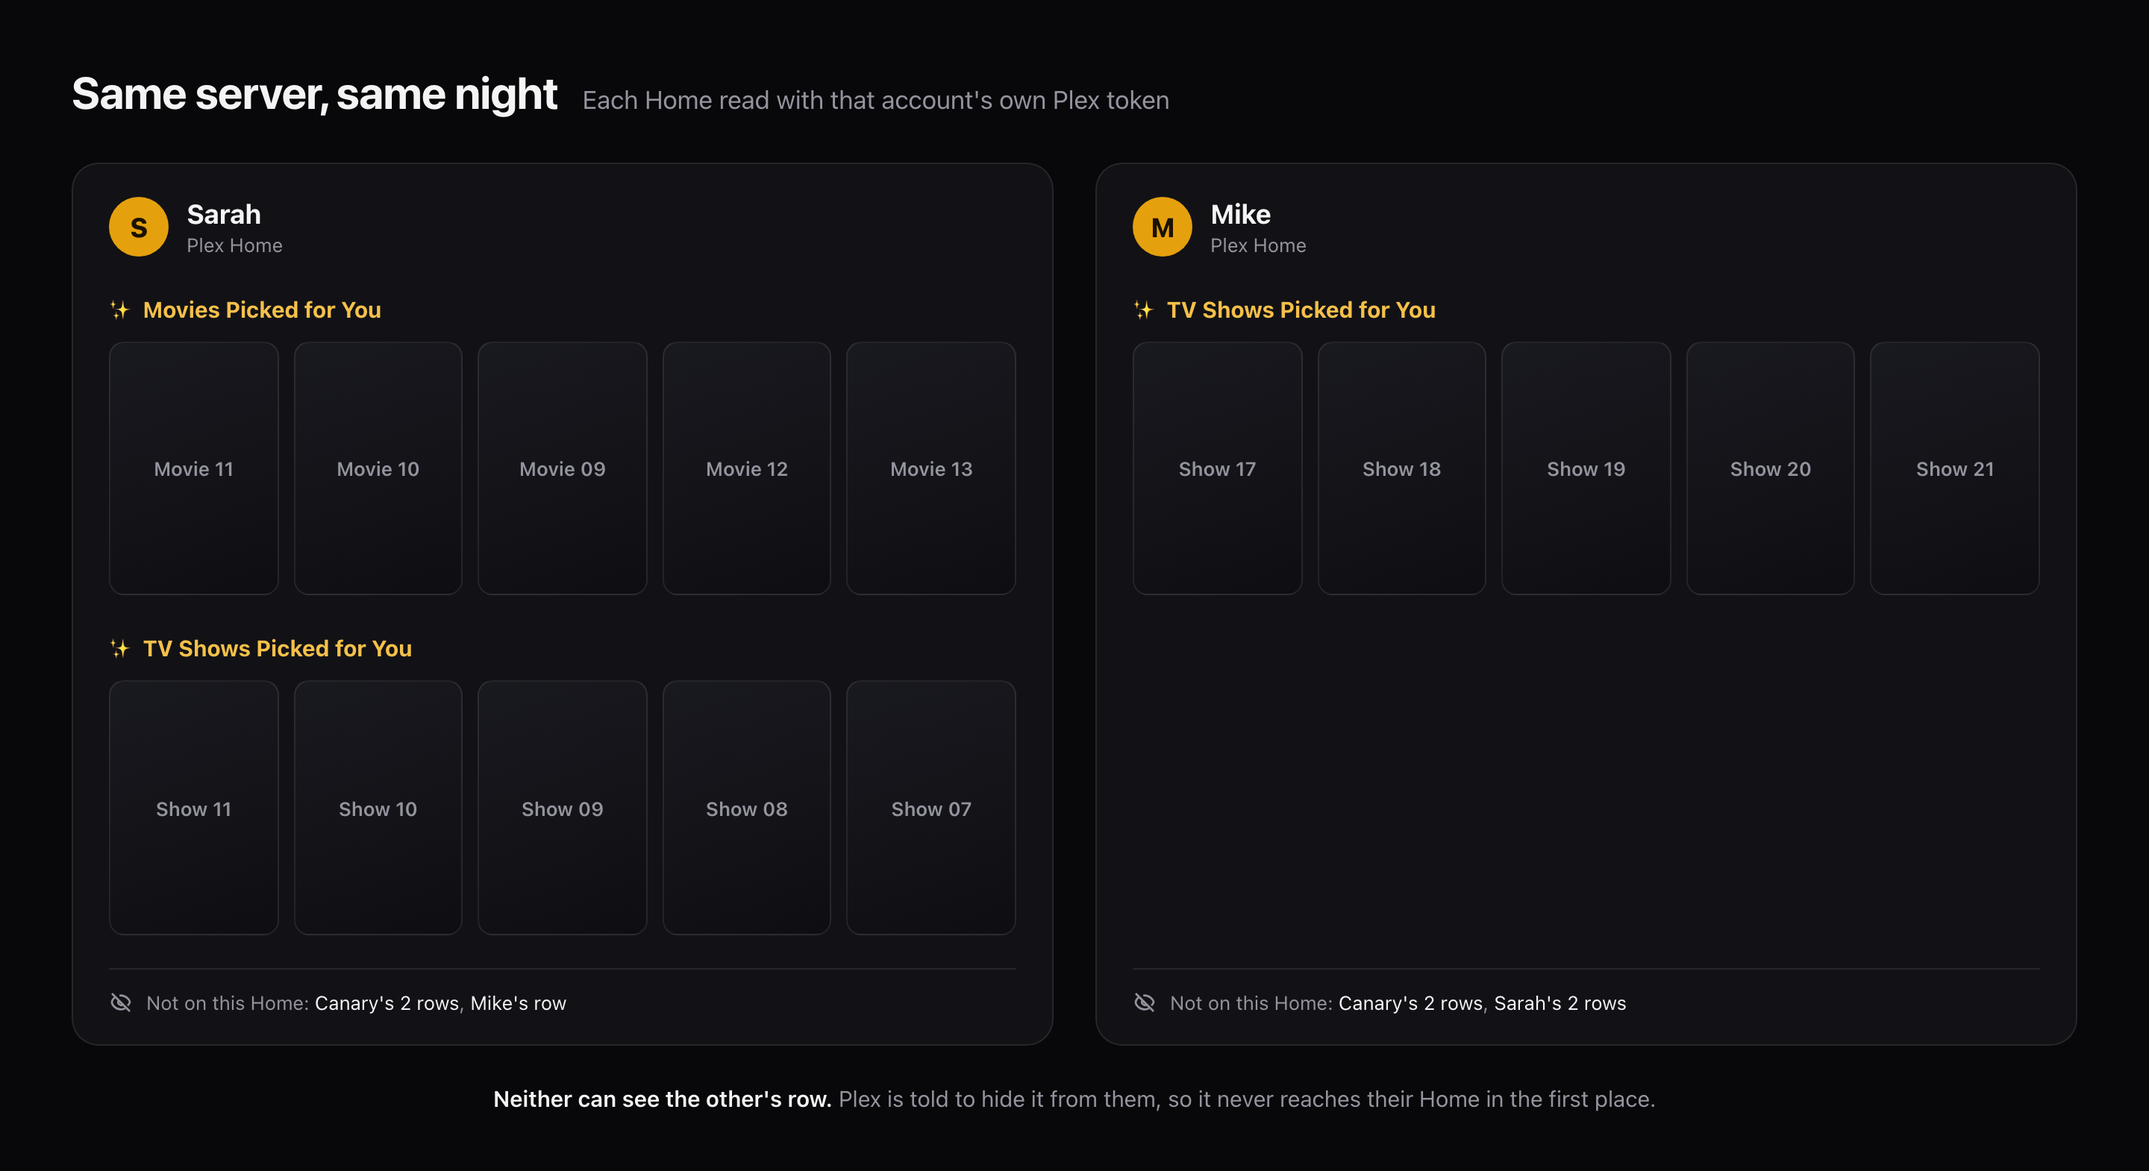
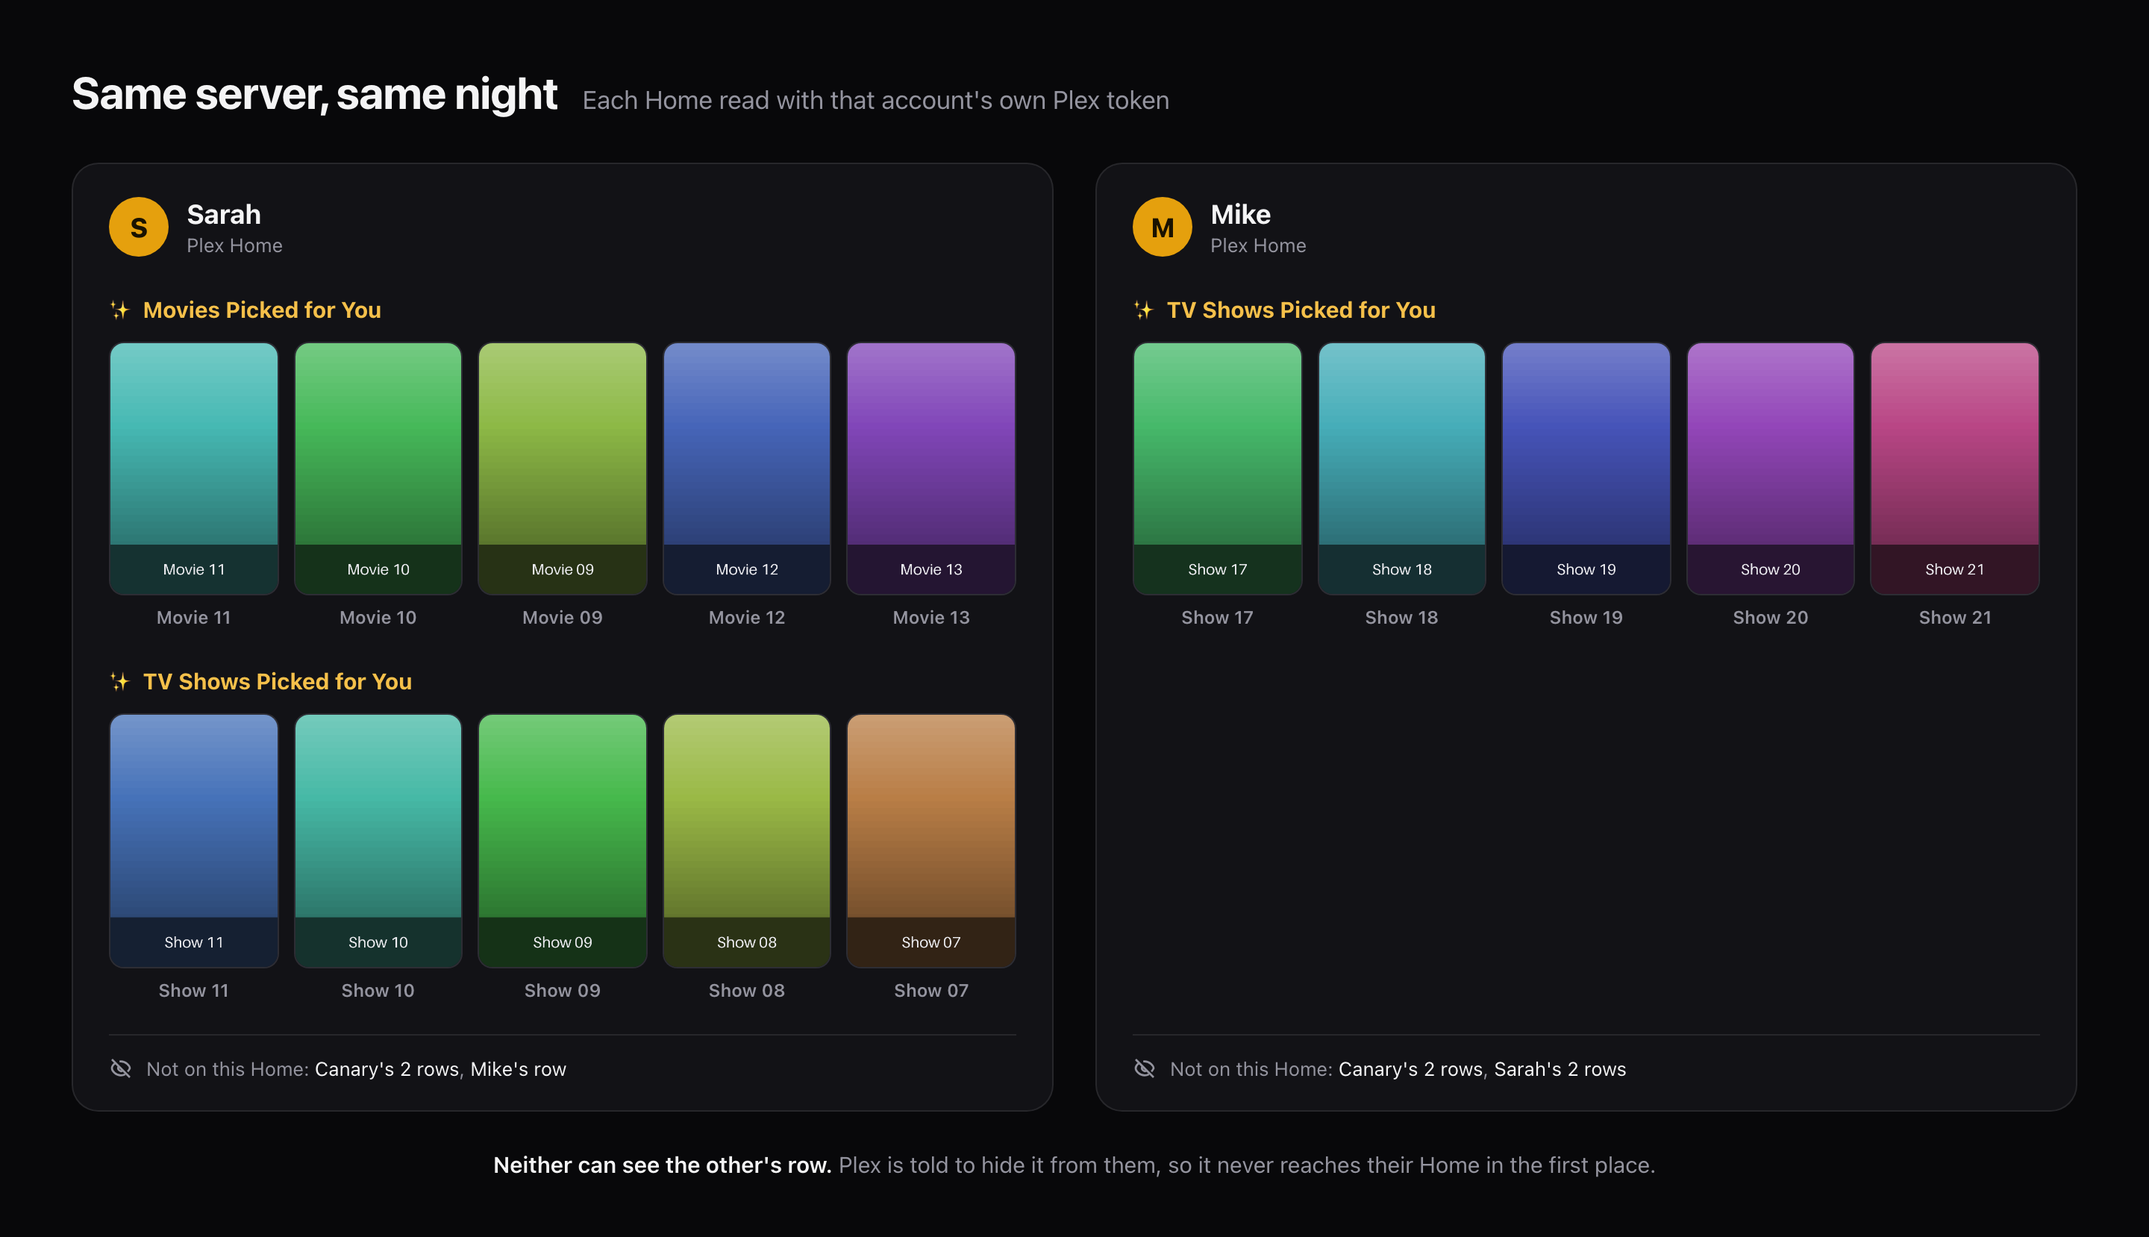
fix(docs): stop the hero advertising films the viewer has already watched
The site's hero was a photograph of the maintainer's own Plex, and four of the
eight titles on it carried Plex's watched tick. A "Picked for You" row selling
Shawshank, The Godfather and The Dark Knight to someone who has seen all three
is the exact failure this product exists to prevent, and it was the first thing
a visitor saw. Nothing could have caught it, because it was a photograph.

It is now built from the e2e harness like the other two marketing images, so
the shelf holds what the engine actually delivered and the test can assert what
the picture claims: no title on the hero is one the account has watched.

That only works if a fake poster looks like a poster, so `_fake_poster` now
draws the item's title into its title block and renders at 400x600 — the hero
shows a poster ~360 device pixels wide, and the old 200px source upscaled to
mush. `.claude/rules/testing.md` asks the fake to be no easier than the real
server, and a real PMS poster carries its title.

The two-account privacy picture gets the same posters: it used flat text tiles,
so the one image whose whole point is "these two Homes hold different things"
was making that point in the weakest way available.

Claude-Session: https://claude.ai/code/session_01AKA1JABEXyfJyUDAXAN276

diff --git a/docs/_layouts/home.html b/docs/_layouts/home.html
@@ -68,8 +68,8 @@ and left the reader to work out which picture went with which step.
 
       <figure class="hero__shot">
         <div class="frame">
-          <img src="{{ '/images/plex-picked-for-you.jpg' | relative_url }}" width="1600" height="422"
-               alt="A Movies Picked for You row on Plex, filled with film posters">
+          <img src="{{ '/images/plex-picked-for-you.png' | relative_url }}" width="1600" height="404"
+               alt="A Movies Picked for You row on a Plex home screen, filled with film posters">
         </div>
         <figcaption>
           A &ldquo;Picked for You&rdquo; row on Plex, private to that user and built from what they watched.

diff --git a/tests/e2e/test_marketing_assets.py b/tests/e2e/test_marketing_assets.py
@@ -6,8 +6,14 @@ because neither picture is a Shortlist screen.
 
     SHOTS_DIR=docs/images .venv/bin/python -m pytest tests/e2e/test_marketing_assets.py -m e2e --no-cov -n0
 
+- `plex-picked-for-you.png` the hero: one delivered row as a Plex Home shelf. Replaces a real
+                      screenshot of the maintainer's own server, on which four of the eight visible
+                      titles carried Plex's watched tick — a "Picked for You" row advertising films
+                      the viewer had already seen, which is the exact failure the product exists to
+                      prevent. Built from the harness instead, so the shelf holds what the engine
+                      actually delivered and the test can ASSERT nothing on it is watched.
 - `two-account.png`   two accounts' Plex Home hubs, side by side, read through their OWN server
-                      tokens. Every title on it is the fake PMS's real answer to that account's
+                      tokens. Every poster on it is the fake PMS's real answer to that account's
                       token, so the picture cannot claim a privacy result the harness doesn't have.
 - `social-preview.png` the og:image card. No live data at all, so it needs no Plex fixture.
 """
@@ -57,8 +63,101 @@ def _shot_path(name: str) -> Path:
     return out
 
 
-def _rows_visible_to(app: ShortlistApp, account_id: int) -> list[tuple[int, str, list[str]]]:
-    """Every Shortlist row on that account's own Plex Home, with the titles inside it.
+#: Tiles across the hero shelf. Eight fit at a readable size in the 1600px the docs site reserves,
+#: and a ninth is rendered deliberately half-clipped by the right edge — a Plex shelf always
+#: continues past the fold, and one ending flush reads as a short row rather than a scrollable one.
+HERO_TILES = 8
+
+
+def _hero_shelf(app: ShortlistApp, account_id: int) -> tuple[str, list[dict[str, str]]]:
+    """That account's first Shortlist row, as (row title, tiles)."""
+    for _key, title, tiles in _rows_visible_to(app, account_id):
+        if tiles:
+            return title, tiles
+    raise AssertionError(f"account {account_id} has no Shortlist row to photograph")
+
+
+def _hero_html(pms_url: str, row_title: str, tiles: list[dict[str, str]]) -> str:
+    cards = "".join(
+        f"""
+      <li class="tile">
+        <img src="{html.escape(pms_url + tile["thumb"])}" alt="">
+        <p class="tile__title">{html.escape(tile["title"])}</p>
+        <p class="tile__year">{html.escape(tile["year"])}</p>
+      </li>"""
+        for tile in tiles
+    )
+    return f"""<!doctype html>
+<html><head><meta charset="utf-8"><style>
+  :root {{{PALETTE}
+    --font: ui-sans-serif, -apple-system, BlinkMacSystemFont, "Segoe UI", Roboto, sans-serif;
+  }}
+  * {{ box-sizing: border-box; }}
+  /* Plex's own shelf background, not the docs site's: the picture is meant to read as Plex. */
+  body {{
+    margin: 0; padding: 26px 0 22px 28px; width: 1600px; overflow: hidden;
+    background: #101013; color: #f4f4f5; font-family: var(--font); -webkit-font-smoothing: antialiased;
+  }}
+  .shelf {{ display: flex; align-items: center; gap: 12px; margin: 0 28px 18px 0; }}
+  .shelf h2 {{ margin: 0; font-size: 30px; font-weight: 700; letter-spacing: -0.01em; }}
+  .shelf .chevrons {{ margin-left: auto; display: flex; gap: 18px; color: #6f6f7a; }}
+  .shelf svg {{ width: 22px; height: 22px; }}
+  /* One row that overflows on purpose — see HERO_TILES. */
+  .tiles {{ display: flex; gap: 16px; margin: 0; padding: 0; list-style: none; }}
+  .tile {{ flex: 0 0 168px; }}
+  .tile img {{
+    display: block; width: 168px; height: 252px; object-fit: cover;
+    border-radius: 6px; background: var(--surface-2);
+  }}
+  .tile__title {{
+    margin: 10px 0 2px; font-size: 15px; font-weight: 500; color: #e8e8ec;
+    white-space: nowrap; overflow: hidden; text-overflow: ellipsis;
+  }}
+  .tile__year {{ margin: 0; font-size: 14px; color: #86868f; }}
+</style></head>
+<body>
+  <div class="shelf">
+    <h2>{html.escape(row_title)}</h2>
+    <span class="chevrons">
+      <svg viewBox="0 0 24 24" fill="none" stroke="currentColor" stroke-width="2"><path d="M15 6l-6 6 6 6"/></svg>
+      <svg viewBox="0 0 24 24" fill="none" stroke="currentColor" stroke-width="2"><path d="M9 6l6 6-6 6"/></svg>
+    </span>
+  </div>
+  <ul class="tiles">{cards}</ul>
+</body></html>"""
+
+
+@skip_unless_capturing
+def test_capture_hero_shelf(browser: Browser, app: ShortlistApp, reset_fake_plex) -> None:
+    """Sarah's delivered movie row, drawn as the Plex shelf it becomes.
+
+    The assertion is the point of doing this from the harness rather than by hand: every title on
+    the hero must be one Sarah has NOT watched. The image it replaces failed that, and nothing could
+    have told anyone, because it was a photograph.
+    """
+    state = reset_fake_plex
+    build_real_rows(app)
+
+    row_title, tiles = _hero_shelf(app, 201)
+    assert len(tiles) >= HERO_TILES, f"the row holds {len(tiles)} titles — too few to fill the hero"
+    tiles = tiles[: HERO_TILES + 1]
+
+    watched = state.watched_now(201)
+    already_seen = [tile["title"] for tile in tiles if int(tile["key"]) in watched]
+    assert not already_seen, f"the hero would advertise titles Sarah has already watched: {already_seen}"
+    assert all(tile["thumb"] for tile in tiles), "a tile has no artwork path — the hero would show a gap"
+
+    context = browser.new_context(viewport={"width": 1600, "height": 440}, device_scale_factor=2)
+    page = context.new_page()
+    page.set_content(_hero_html(app.pms_url, row_title, tiles))
+    # Posters come off the fake PMS over HTTP, so the shelf is empty until they land.
+    page.wait_for_load_state("networkidle")
+    page.locator("body").screenshot(path=str(_shot_path("plex-picked-for-you.png")))
+    context.close()
+
+
+def _rows_visible_to(app: ShortlistApp, account_id: int) -> list[tuple[int, str, list[dict[str, str]]]]:
+    """Every Shortlist row on that account's own Plex Home, with the items inside it.
 
     Asked of the fake PMS with `X-Plex-Token: server-<account_id>`, which is the same call
     `test_privacy_uninstall_e2e.py` uses to prove nobody sees anyone else's row. Reading it any
@@ -66,9 +165,11 @@ def _rows_visible_to(app: ShortlistApp, account_id: int) -> list[tuple[int, str,
     believes rather than of what Plex answers.
 
     Returns:
-        One `(rating_key, row title, item titles)` per visible row, in hub order.
+        One `(rating_key, row title, tiles)` per visible row, in hub order. A tile carries the
+        item's key, title, year and artwork path: both pictures draw posters, and the key is what
+        lets the hero assert it is not advertising something the viewer already watched.
     """
-    rows: list[tuple[int, str, list[str]]] = []
+    rows: list[tuple[int, str, list[dict[str, str]]]] = []
     for hub in app.plex_hubs_as(account_id):
         key = str(hub.get("key") or "")
         match = re.search(r"/library/collections/(\d+)", key)
@@ -82,24 +183,46 @@ def _rows_visible_to(app: ShortlistApp, account_id: int) -> list[tuple[int, str,
         response.raise_for_status()
         container = ElementTree.fromstring(response.text)
         # Plex serves movies as <Video> and shows as <Directory>; a row can hold either.
-        titles = [
-            title for element in container if element.tag in ("Video", "Directory") and (title := element.get("title"))
+        tiles = [
+            {
+                "key": element.get("ratingKey") or "",
+                "title": title,
+                "year": element.get("year") or "",
+                "thumb": element.get("thumb") or "",
+            }
+            for element in container
+            if element.tag in ("Video", "Directory") and (title := element.get("title"))
         ]
-        rows.append((int(match.group(1)), str(hub.get("title") or ""), titles))
+        rows.append((int(match.group(1)), str(hub.get("title") or ""), tiles))
     return rows
 
 
-def _column_html(display_name: str, rows: list[tuple[int, str, list[str]]], hidden: list[str]) -> str:
+def _poster_tile(pms_url: str, tile: dict[str, str]) -> str:
+    """One poster with its title under it.
+
+    The caption is not redundant with the artwork's own title block: at five tiles across half of a
+    1440px canvas a poster is ~130px wide, and the point of this picture is *which titles* each
+    account holds — a title only legible at full size would not make it.
+    """
+    return (
+        f'<figure class="tile"><img src="{html.escape(pms_url + tile["thumb"])}" alt="">'
+        f"<figcaption>{html.escape(tile['title'])}</figcaption></figure>"
+    )
+
+
+def _column_html(
+    pms_url: str, display_name: str, rows: list[tuple[int, str, list[dict[str, str]]]], hidden: list[str]
+) -> str:
     """One account's Home column."""
     shelves = "".join(
         f"""
         <div class="shelf">
           <h3>{html.escape(title)}</h3>
           <div class="tiles">
-            {"".join(f'<span class="tile">{html.escape(item)}</span>' for item in items[:TILES])}
+            {"".join(_poster_tile(pms_url, tile) for tile in tiles[:TILES])}
           </div>
         </div>"""
-        for _key, title, items in rows
+        for _key, title, tiles in rows
     )
     hidden_html = "".join(f"<span>{html.escape(name)}</span>" for name in hidden)
     return f"""
@@ -162,11 +285,14 @@ def _two_account_html(columns: str) -> str:
     margin: 0 0 10px; font-size: 15px; font-weight: 700; color: var(--amber-bright);
   }}
   .tiles {{ display: grid; grid-template-columns: repeat({TILES}, 1fr); gap: 10px; }}
-  .tile {{
-    display: grid; place-items: center; text-align: center; aspect-ratio: 2 / 3;
-    padding: 6px; border-radius: 10px; border: 1px solid var(--border);
-    background: linear-gradient(160deg, var(--surface-2), #0e0e12);
-    color: var(--muted); font-size: 13px; font-weight: 600;
+  .tile {{ margin: 0; }}
+  .tile img {{
+    display: block; width: 100%; aspect-ratio: 2 / 3; object-fit: cover;
+    border-radius: 10px; border: 1px solid var(--border); background: var(--surface-2);
+  }}
+  .tile figcaption {{
+    margin-top: 7px; text-align: center; color: var(--muted); font-size: 12px; font-weight: 600;
+    white-space: nowrap; overflow: hidden; text-overflow: ellipsis;
   }}
   .home > footer {{
     display: flex; align-items: center; gap: 9px;
@@ -227,12 +353,13 @@ def test_capture_two_account_image(browser: Browser, app: ShortlistApp, reset_fa
         hidden = [
             f"{name}'s row" if count == 1 else f"{name}'s {count} rows" for name, count in sorted(withheld.items())
         ]
-        columns += _column_html(slug, rows, hidden)
+        columns += _column_html(app.pms_url, slug, rows, hidden)
 
     context = browser.new_context(viewport={"width": 1440, "height": 900}, device_scale_factor=2)
     page = context.new_page()
     page.set_content(_two_account_html(columns))
-    page.wait_for_timeout(300)
+    # Posters come off the fake PMS over HTTP, so the columns are empty until they land.
+    page.wait_for_load_state("networkidle")
     page.locator("body").screenshot(path=str(_shot_path("two-account.png")))
     context.close()
 

diff --git a/tests/fakes/fake_plex.py b/tests/fakes/fake_plex.py
@@ -701,26 +701,42 @@ def _sorted_items(items: list[FakeMovie], sort: str | None) -> list[FakeMovie]:
     return sorted(items, key=_SORT_KEYS.get(fieldname, lambda m: m.rating_key), reverse=direction == "desc")
 
 
+def _poster_title_lines(draw, title: str, font, max_width: int) -> list[str]:
+    """Wrap a poster title to at most two lines, ellipsising the second — a title block has no third."""
+    lines = [""]
+    for word in title.split():
+        trial = f"{lines[-1]} {word}".strip()
+        if not lines[-1] or draw.textlength(trial, font=font) <= max_width:
+            lines[-1] = trial
+        elif len(lines) < 2:
+            lines.append(word)
+        else:
+            lines[-1] = f"{lines[-1]}\u2026"
+            break
+    return lines
+
+
 @lru_cache(maxsize=256)
-def _fake_poster(rating_key: int) -> bytes:
-    """A poster-SHAPED, per-title-COLOURED image, not a stretched single pixel.
+def _fake_poster(rating_key: int, title: str = "") -> bytes:
+    """A poster-SHAPED, per-title-COLOURED image carrying its own title, not a stretched single pixel.
 
     The 1x1 placeholder below is right for asserting "artwork was served"; it is wrong for the
     screenshots the docs site ships, where every pick rendered as the same flat green rectangle and
     the pick list looked broken rather than illustrated. Since `.claude/rules/testing.md` says the
     fake must be no EASIER than the real server, and a real PMS returns a distinct 2:3 image per
-    title, this returns one too.
+    title with that title printed on it, this returns one too — at 400x600, because the docs site's
+    hero renders a poster around 360 device pixels wide and a 200px source upscales to mush.
 
-    Deterministic from the rating key, so a screenshot re-taken tomorrow is byte-identical and does
-    not churn the repo. Falls back to the flat pixel if Pillow is missing, so the fake never becomes
-    the reason a test cannot run.
+    Deterministic from the rating key and title, so a screenshot re-taken tomorrow is byte-identical
+    and does not churn the repo. Falls back to the flat pixel if Pillow is missing, so the fake never
+    becomes the reason a test cannot run.
     """
     try:
-        from PIL import Image, ImageDraw
+        from PIL import Image, ImageDraw, ImageFont
     except ImportError:  # pragma: no cover - Pillow ships in requirements.lock via the posters extra
         return _PNG_1X1
 
-    width, height = 200, 300
+    width, height, band = 400, 600, 118
     hue = (rating_key * 47) % 360  # spread neighbouring keys far apart so a list looks varied
     image = Image.new("RGB", (width, height))
     draw = ImageDraw.Draw(image)
@@ -729,7 +745,16 @@ def _fake_poster(rating_key: int) -> bytes:
         lightness = 62 - int(38 * y / height)
         draw.line([(0, y), (width, y)], fill=f"hsl({hue}, 45%, {lightness}%)")
     # A darker band where a real poster carries its title block.
-    draw.rectangle([0, height - 58, width, height], fill=f"hsl({hue}, 40%, 14%)")
+    draw.rectangle([0, height - band, width, height], fill=f"hsl({hue}, 40%, 14%)")
+    if title:
+        # The same built-in face `poster_service` renders row posters with, so the fake needs no font
+        # file on disk and CI, the Mac and the image all produce identical bytes.
+        font = ImageFont.load_default(size=36)
+        lines = _poster_title_lines(draw, title, font, width - 40)
+        y = height - band + (band - len(lines) * 44) // 2
+        for line in lines:
+            draw.text(((width - draw.textlength(line, font=font)) / 2, y), line, font=font, fill=(238, 238, 242))
+            y += 44
     buffer = io.BytesIO()
     image.save(buffer, format="PNG")
     return buffer.getvalue()
@@ -1037,7 +1062,7 @@ def make_fake_plex(state: FakePlexState) -> FastAPI:
         item = state.item(rating_key)
         if item is None or stamp != str(item.added_at):
             raise HTTPException(status_code=404, detail=f"no artwork at {rating_key}/thumb/{stamp}")
-        return Response(_fake_poster(rating_key), media_type="image/png")
+        return Response(_fake_poster(rating_key, item.title), media_type="image/png")
 
     @app.get("/hubs/sections/{section_id}/manage")
     def manage_hubs(section_id: int, request: Request) -> Response:

diff --git a/README.md b/README.md
@@ -64,9 +64,10 @@ picks titles from your library they haven't seen but probably want to, explains 
 them on that person's Plex home screen as a **"Picked for You"** collection. It refreshes on a
 schedule you set, and each row is visible only to its owner.
 
-![A "Movies Picked for You" row on Plex](docs/images/plex-picked-for-you.jpg)
+![A "Movies Picked for You" row on Plex](docs/images/plex-picked-for-you.png)
 
-<sub>The result on a real server: a "Picked for You" row, private to that user.</sub>
+<sub>What lands on Plex: a "Picked for You" row, private to that user. Shown with the demo
+library the test suite ships, so the titles are placeholders — the layout is Plex's own.</sub>
 
 **It slots into the stack you already run.** Watch history comes straight from Plex (Tautulli
 optional), candidates from TMDB and Trakt, and gaps can be handed to **Radarr/Sonarr** — while
